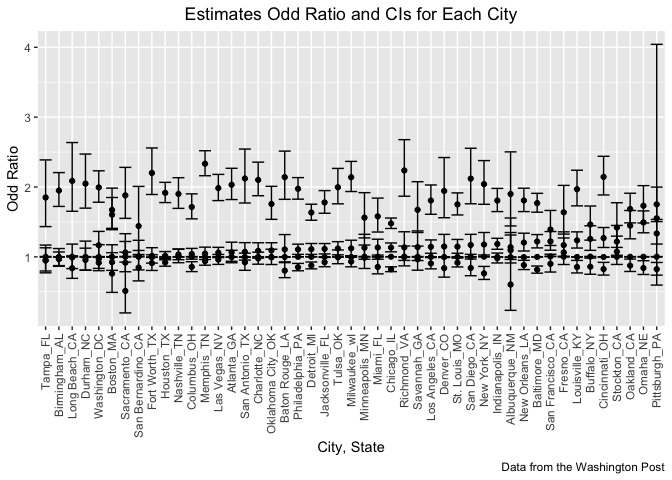
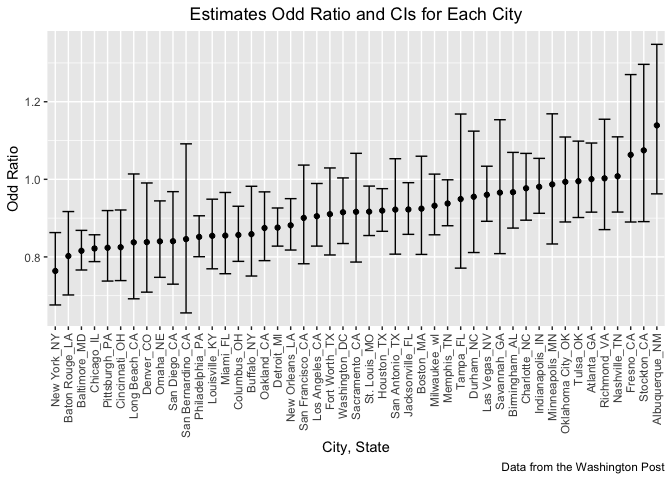
adjusted plot for problem 2

diff --git a/p8105_hw6_jz3571.md b/p8105_hw6_jz3571.md
@@ -165,21 +165,21 @@ baltimore_df =
   homicide_clean %>% 
   filter(city_state =="Baltimore_MD") 
 
-glm(resolved ~ victim_age + victim_race + victim_sex, data = baltimore_df) %>% 
+glm(resolved ~ victim_age + victim_race + victim_sex, data = baltimore_df, family = "binomial") %>% 
   broom::tidy() %>% 
   mutate(odd_ratio = exp(estimate),
          CI_lower = exp(estimate - 1.96*std.error),
          CI_upper = exp(estimate + 1.96*std.error)) %>% 
   select(term, odd_ratio, starts_with("CI")) %>% 
-  knitr::kable()
+  knitr::kable(digit = 3)
 ```
 
-| term             | odd_ratio |  CI_lower |  CI_upper |
-|:-----------------|----------:|----------:|----------:|
-| (Intercept)      | 1.7690446 | 1.6391359 | 1.9092492 |
-| victim_age       | 0.9985054 | 0.9970721 | 0.9999408 |
-| victim_raceWhite | 1.2197049 | 1.1278331 | 1.3190605 |
-| victim_sexMale   | 0.8157365 | 0.7662608 | 0.8684067 |
+| term             | odd_ratio | CI_lower | CI_upper |
+|:-----------------|----------:|---------:|---------:|
+| (Intercept)      |     1.363 |    0.975 |    1.907 |
+| victim_age       |     0.993 |    0.987 |    1.000 |
+| victim_raceWhite |     2.320 |    1.648 |    3.268 |
+| victim_sexMale   |     0.426 |    0.325 |    0.558 |
 
 #### Run glm for each of the cities in your dataset, and extract the adjusted odds ratio (and CI) for solving homicides comparing male victims to female victims.
 
@@ -192,11 +192,65 @@ all_glm =
     results = map(models, broom::tidy)
     ) %>% 
   unnest(results) %>% 
+  filter(term == "victim_sexMale") %>% 
   mutate(odd_ratio = exp(estimate),
          CI_lower = exp(estimate - 1.96*std.error),
          CI_upper = exp(estimate + 1.96*std.error)) %>% 
-  select(term, odd_ratio, starts_with("CI"))
+  select(city_state, odd_ratio, starts_with("CI"))
+  
+all_glm %>% 
+  knitr::kable(digit = 3)
 ```
+
+| city_state        | odd_ratio | CI_lower | CI_upper |
+|:------------------|----------:|---------:|---------:|
+| Albuquerque_NM    |     1.139 |    0.963 |    1.348 |
+| Atlanta_GA        |     1.001 |    0.915 |    1.094 |
+| Baltimore_MD      |     0.816 |    0.766 |    0.868 |
+| Baton Rouge_LA    |     0.802 |    0.702 |    0.917 |
+| Birmingham_AL     |     0.967 |    0.874 |    1.069 |
+| Boston_MA         |     0.924 |    0.806 |    1.060 |
+| Buffalo_NY        |     0.859 |    0.751 |    0.982 |
+| Charlotte_NC      |     0.977 |    0.895 |    1.067 |
+| Chicago_IL        |     0.822 |    0.788 |    0.857 |
+| Cincinnati_OH     |     0.825 |    0.739 |    0.921 |
+| Columbus_OH       |     0.857 |    0.788 |    0.931 |
+| Denver_CO         |     0.838 |    0.709 |    0.991 |
+| Detroit_MI        |     0.876 |    0.828 |    0.926 |
+| Durham_NC         |     0.955 |    0.811 |    1.124 |
+| Fort Worth_TX     |     0.910 |    0.805 |    1.029 |
+| Fresno_CA         |     1.063 |    0.890 |    1.270 |
+| Houston_TX        |     0.919 |    0.866 |    0.976 |
+| Indianapolis_IN   |     0.981 |    0.912 |    1.054 |
+| Jacksonville_FL   |     0.922 |    0.858 |    0.991 |
+| Las Vegas_NV      |     0.960 |    0.892 |    1.034 |
+| Long Beach_CA     |     0.838 |    0.692 |    1.014 |
+| Los Angeles_CA    |     0.905 |    0.828 |    0.989 |
+| Louisville_KY     |     0.854 |    0.769 |    0.949 |
+| Memphis_TN        |     0.938 |    0.880 |    0.999 |
+| Miami_FL          |     0.855 |    0.757 |    0.966 |
+| Milwaukee_wI      |     0.932 |    0.857 |    1.013 |
+| Minneapolis_MN    |     0.987 |    0.833 |    1.169 |
+| Nashville_TN      |     1.008 |    0.916 |    1.109 |
+| New Orleans_LA    |     0.881 |    0.818 |    0.950 |
+| New York_NY       |     0.764 |    0.676 |    0.863 |
+| Oakland_CA        |     0.875 |    0.790 |    0.968 |
+| Oklahoma City_OK  |     0.994 |    0.890 |    1.109 |
+| Omaha_NE          |     0.840 |    0.747 |    0.944 |
+| Philadelphia_PA   |     0.852 |    0.800 |    0.906 |
+| Pittsburgh_PA     |     0.824 |    0.738 |    0.919 |
+| Richmond_VA       |     1.003 |    0.870 |    1.155 |
+| San Antonio_TX    |     0.922 |    0.807 |    1.053 |
+| Sacramento_CA     |     0.916 |    0.787 |    1.067 |
+| Savannah_GA       |     0.966 |    0.808 |    1.154 |
+| San Bernardino_CA |     0.846 |    0.656 |    1.091 |
+| San Diego_CA      |     0.841 |    0.730 |    0.968 |
+| San Francisco_CA  |     0.901 |    0.782 |    1.037 |
+| St. Louis_MO      |     0.917 |    0.855 |    0.983 |
+| Stockton_CA       |     1.075 |    0.891 |    1.296 |
+| Tampa_FL          |     0.949 |    0.771 |    1.168 |
+| Tulsa_OK          |     0.995 |    0.902 |    1.098 |
+| Washington_DC     |     0.915 |    0.834 |    1.004 |
 
 #### Plot he estimated ORs and CIs for each city
 
